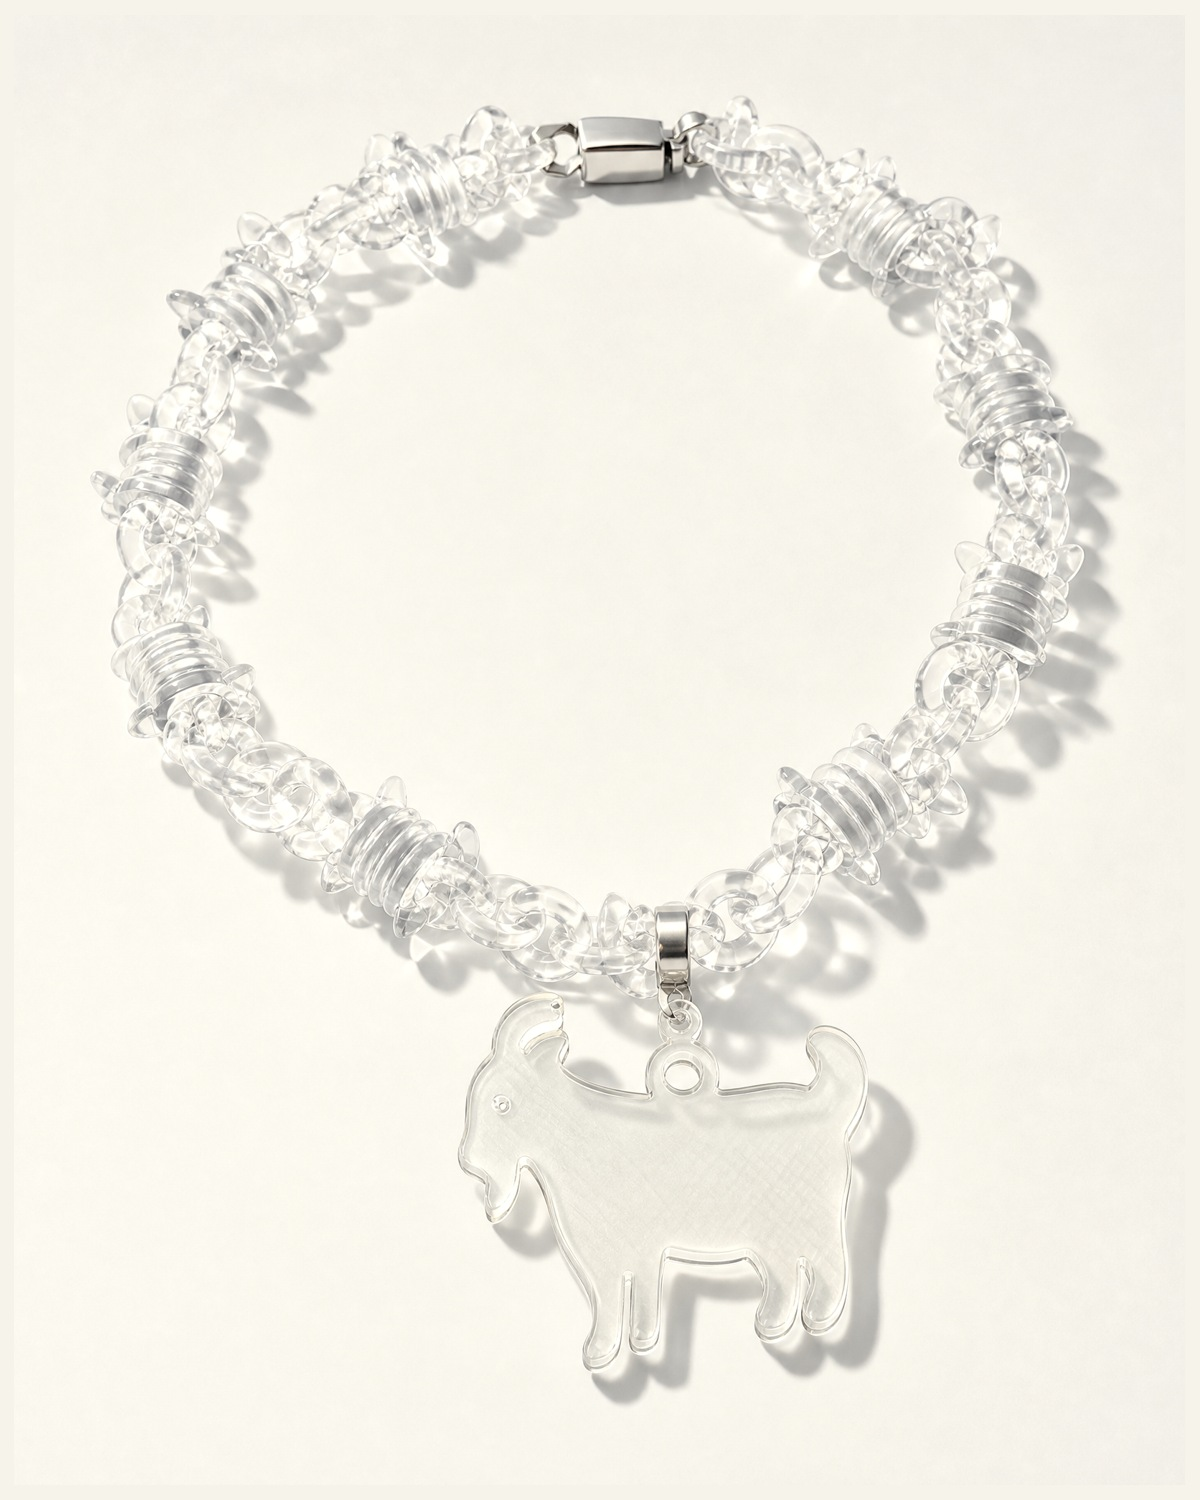
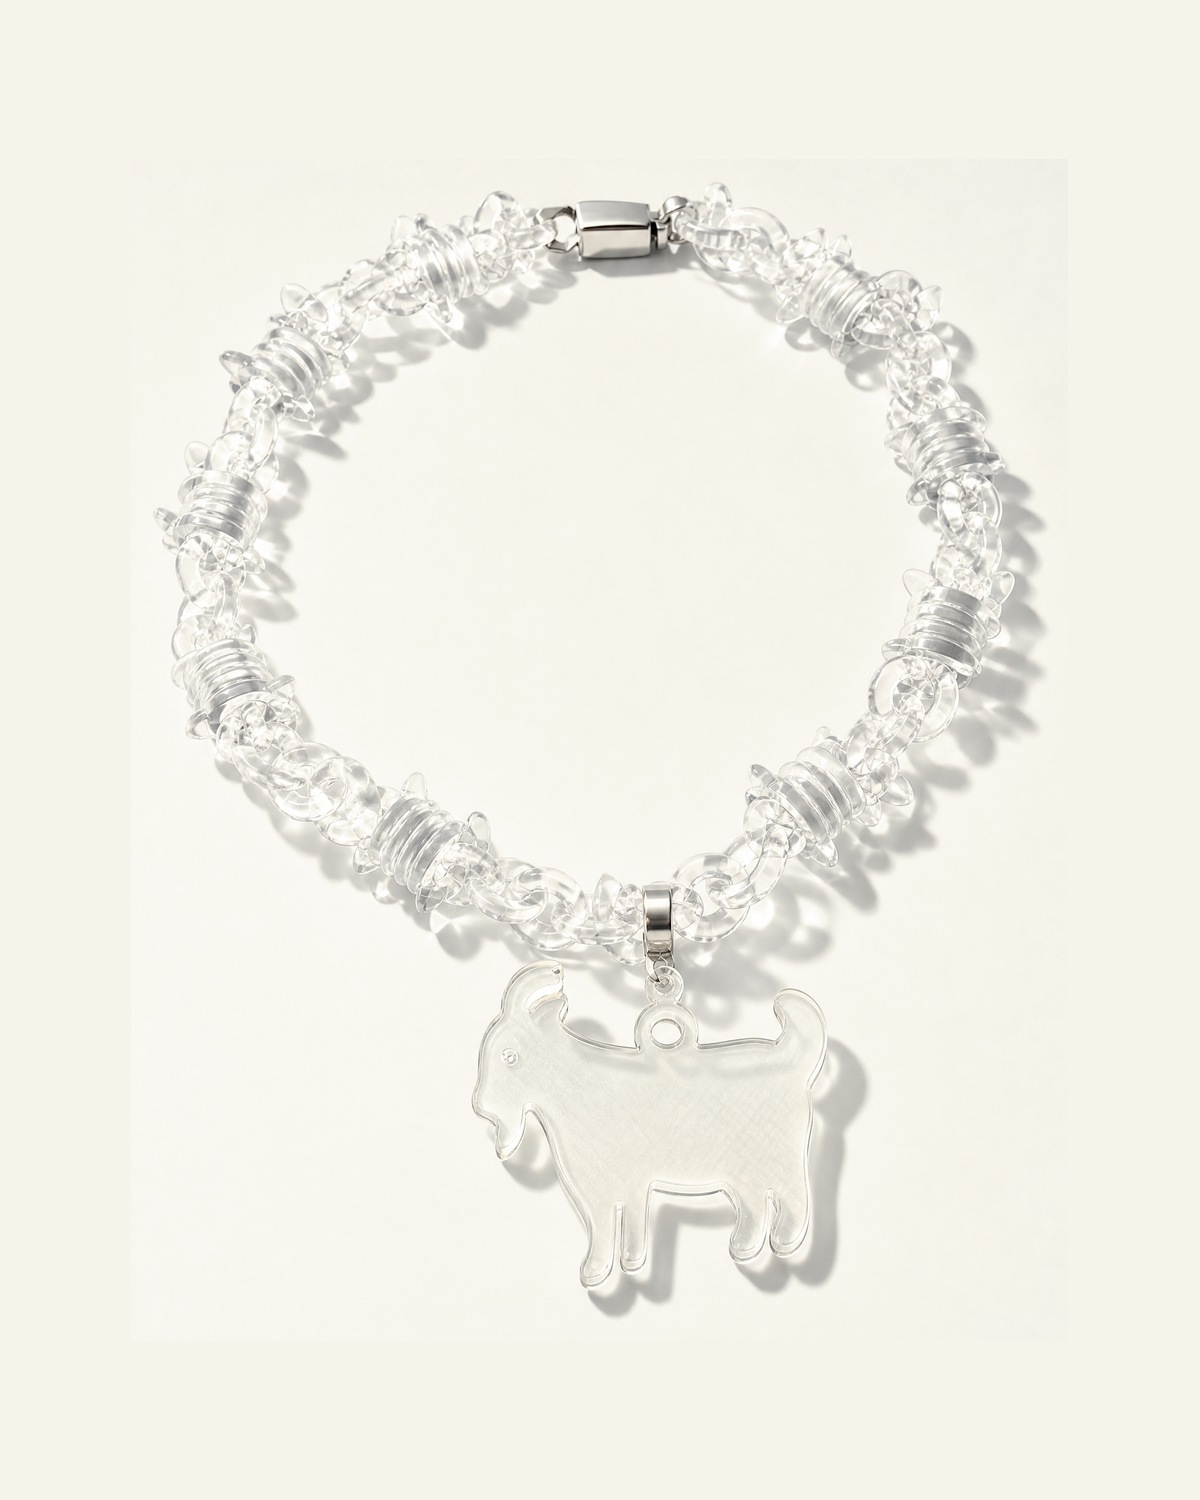
ZPZ + ZPG: matched necklace mockups (same cream bg, same ring scale) + Zoe worn shot

Changed region(s): [[0.0617, 0.0613, 0.925, 0.9507]]

diff --git a/index.html b/index.html
@@ -286,7 +286,7 @@ body.navSolid .hamb{color:var(--ink);}
       <div class="grid" id="shopGrid"><div class="card" data-id="green-hoodie" data-code="ZHG" data-cat="Hoodies" data-name="Heavyweight Hoodie — Green" data-price="$80" data-pricev="80" data-badge="NEW" data-bc="b-new" data-img="img/greenhoodie.jpg" data-imgs='["img/greenhoodie.jpg", "img/greenhoodie_model.jpg", "img/greenback.jpg", "img/greenhoodie_modelback.jpg"]' data-meaning="ZHG — Zoemain · Hoodie · Green" data-material="French terry cotton · garment-dyed" data-fit="Oversized · structured" data-desc="A weighty cotton hood that holds its shape and softens with you. The cornerstone of the line." onclick="openProduct(this)"><div class="thumb"><span class="badge b-new">NEW</span><img src="img/greenhoodie.jpg" alt="ZHG" loading="lazy"></div><div class="prow"><span class="pname">ZHG</span></div><div class="chips"><span class="chip">S</span><span class="chip on">M</span><span class="chip">L</span><span class="chip">XL</span></div></div>
 <div class="card" data-id="blush-hoodie" data-code="ZHB" data-cat="Hoodies" data-name="Heavyweight Hoodie — Blush" data-price="$80" data-pricev="80" data-badge="LIMITED" data-bc="b-ltd" data-img="img/pinkhoodie.jpg" data-imgs='["img/pinkhoodie.jpg", "img/pinkhoodie_model.jpg", "img/pinkback.jpg", "img/pinkhoodie_modelback.jpg"]' data-meaning="ZHB — Zoemain · Hoodie · Blush" data-material="French terry cotton · soft blush" data-fit="Oversized · structured" data-desc="The same hood, in a soft blush. Quiet on the rack, loud in the right way." onclick="openProduct(this)"><div class="thumb"><span class="badge b-ltd">LIMITED</span><img src="img/pinkhoodie.jpg" alt="ZHB" loading="lazy"></div><div class="prow"><span class="pname">ZHB</span></div><div class="chips"><span class="chip">S</span><span class="chip on">M</span><span class="chip">L</span><span class="chip">XL</span></div></div>
 <div class="card" data-id="bone-tee" data-code="ZTB" data-cat="Tops" data-name="Heavyweight Tee — Bone" data-price="$50" data-pricev="50" data-badge="NEW" data-bc="b-new" data-img="img/tee.jpg" data-imgs='["img/tee.jpg", "img/tee_model.jpg", "img/teeback.jpg", "img/tee_modelback.jpg"]' data-meaning="ZTB — Zoemain · Tee · Bone" data-material="French terry cotton · bone" data-fit="Boxy · dropped shoulder" data-desc="A boxy tee in honest bone cotton. The piece you reach for without thinking." onclick="openProduct(this)"><div class="thumb"><span class="badge b-new">NEW</span><img src="img/tee.jpg" alt="ZTB" loading="lazy"></div><div class="prow"><span class="pname">ZTB</span></div><div class="chips"><span class="chip">S</span><span class="chip on">M</span><span class="chip">L</span><span class="chip">XL</span></div></div>
-<div class="card" data-id="zoe-pendant" data-code="ZPZ" data-cat="Jewelry" data-name="Zoe Pendant" data-price="$50" data-pricev="50" data-badge="" data-bc="" data-img="img/zoe.jpg" data-imgs='["img/zoe.jpg"]' data-meaning="ZPZ — Zoemain · Pendant · Zoe" data-material="Polished alloy ‘Zoe’ pendant · lettered chain" data-fit="Lettered chain · 18 in" data-desc="The Zoe pendant on a lettered chain. Worn close, never loud." onclick="openProduct(this)"><div class="thumb"><img src="img/zoe.jpg" alt="ZPZ" loading="lazy"></div><div class="prow"><span class="pname">ZPZ</span></div></div>
+<div class="card" data-id="zoe-pendant" data-code="ZPZ" data-cat="Jewelry" data-name="Zoe Pendant" data-price="$50" data-pricev="50" data-badge="" data-bc="" data-img="img/zoe.jpg" data-imgs='["img/zoe.jpg", "img/zoe_model.jpg"]' data-meaning="ZPZ — Zoemain · Pendant · Zoe" data-material="Polished alloy ‘Zoe’ pendant · lettered chain" data-fit="Lettered chain · 18 in" data-desc="The Zoe pendant on a lettered chain. Worn close, never loud." onclick="openProduct(this)"><div class="thumb"><img src="img/zoe.jpg" alt="ZPZ" loading="lazy"></div><div class="prow"><span class="pname">ZPZ</span></div></div>
 <div class="card" data-id="goat-pendant" data-code="ZPG" data-cat="Jewelry" data-name="Goat Pendant" data-price="$50" data-pricev="50" data-badge="LIMITED" data-bc="b-ltd" data-img="img/goat.jpg" data-imgs='["img/goat.jpg", "img/goat_model.jpg"]' data-meaning="ZPG — Zoemain · Pendant · Goat" data-material="Polished alloy goat charm · curb chain" data-fit="Curb chain · 20 in" data-desc="The goat — bold, personal, one to keep." onclick="openProduct(this)"><div class="thumb"><span class="badge b-ltd">LIMITED</span><img src="img/goat.jpg" alt="ZPG" loading="lazy"></div><div class="prow"><span class="pname">ZPG</span></div></div></div>
     </section>
   </div>